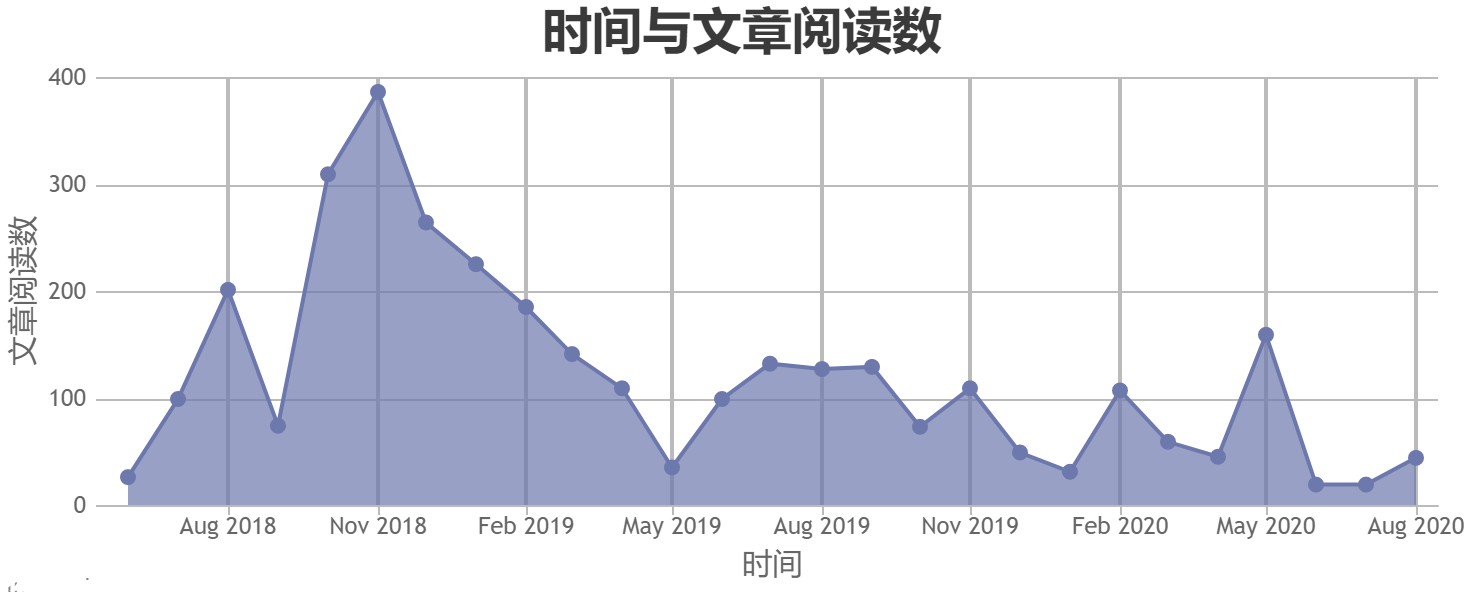
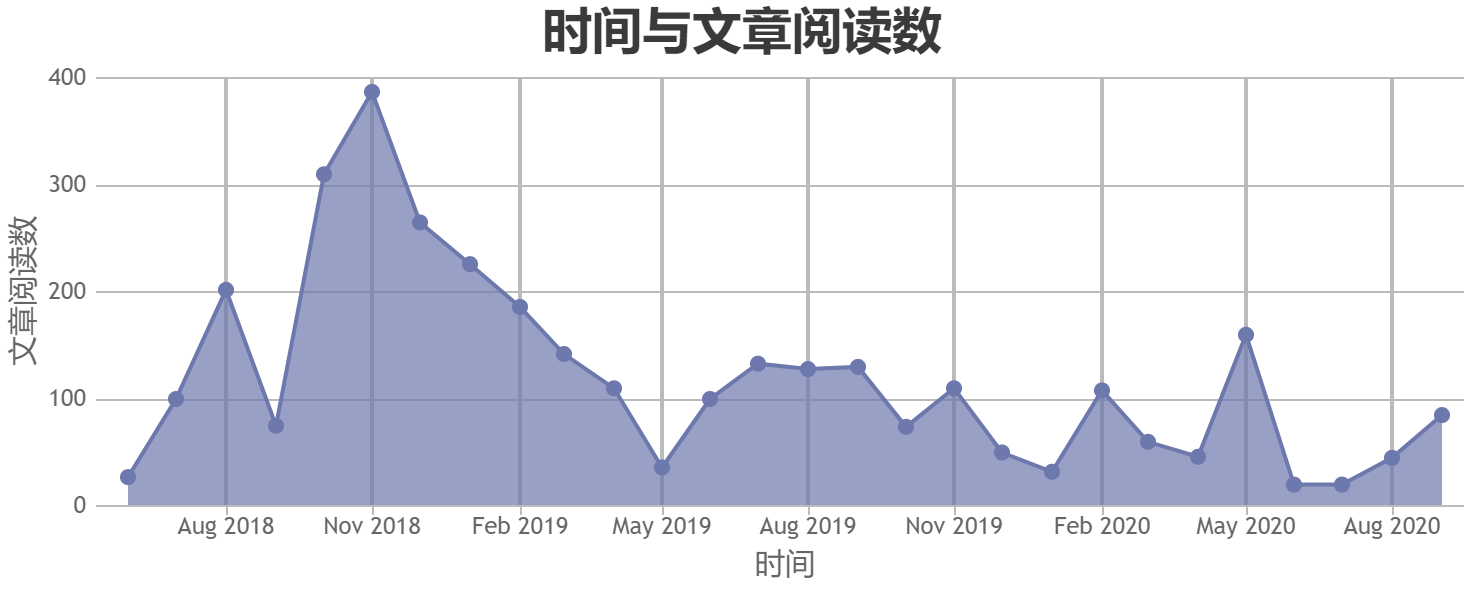
2020-9-6

diff --git a/index.html b/index.html
@@ -52,6 +52,7 @@
                         { x: new Date(2020, 5), y: 20 },
                         { x: new Date(2020, 6), y: 20 },
                         { x: new Date(2020, 7), y: 45 },
+                        { x: new Date(2020, 8), y: 85 },
                     ]
                 }]
             });

diff --git a/number.py b/number.py
@@ -8,10 +8,10 @@ Created on Fri Sep 14 09:12:16 2018
 import matplotlib.pyplot as plt
 date=['2018-5','2018-6','2018-7','2018-8','2018-9','2018-10','2018-11','2018-12',
     '2019-1','2019-2','2019-3','2019-4','2019-5','2019-6','2019-7','2019-8','2019-9','2019-10','2019-11','2019-12',
-    '2020-1','2020-2','2020-3','2020-4','2020-5','2020-6','2020-7']
+    '2020-1','2020-2','2020-3','2020-4','2020-5','2020-6','2020-8']
 number=[27,100,202,75,310,387,265,226,
         186,142,110,36,100,133,128,130,74,110,50,32,
-        108,60,46,160,20,20,45]
+        108,60,46,160,20,20,45,85]
 print("total number: ",sum(number))
 
 plt.figure(figsize=(10,10))

diff --git a/README.md b/README.md
@@ -2,12 +2,15 @@
 若想看根据分类排序 [good-articlles-by-sort](https://github.com/zhang0peter/good-articles-by-sort)         
 ![number](number.png)            
 
-共3282篇文章        
+共3367篇文章        
 
 
-# 2020-8
+# 2020-9
 *   []()
 *   []()
+*   [文件系统：隐匿在 Linux 背后的机制](https://mp.weixin.qq.com/s/UuSRX2r-HagSfmNWpGkbuw)
+
+# 2020-8 共85篇
 *   [解决org.apache.ibatis.binding.BindingException: Invalid bound statement (not found)问题_写代码的蜗牛-CSDN博客_org.apache.ibatis.binding.bindingexception: invali](https://blog.csdn.net/sundacheng1989/article/details/81630370)     
 *   [后端开发，有哪些好用的能提高效率的工具？ - V2EX](https://www.v2ex.com/t/558837)             
 *   [这些MQ概念你都懂吗：死信队列、重试队列、消息回溯等](https://mp.weixin.qq.com/s/RlTZZLmEyblzJWOlc3PYrg?utm_source=tuicool&utm_medium=referral)           
